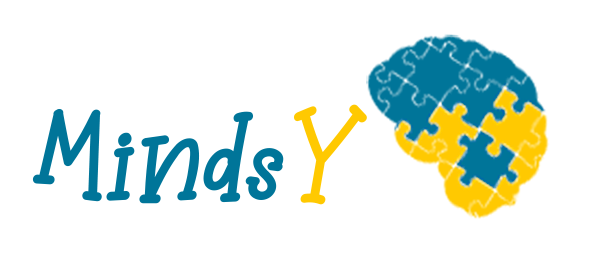
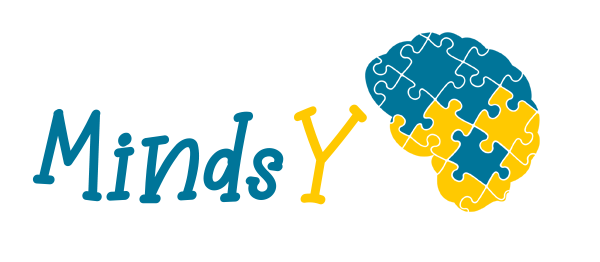
Alterando baner mindsy

Changed region(s): [[0.6, 0.1221, 0.93, 0.855]]

diff --git a/README.md b/README.md
@@ -2,7 +2,7 @@
 [![MIT license](http://img.shields.io/badge/license-MIT-brightgreen.svg)](http://opensource.org/licenses/MIT)
 
 <p align="center">
-  <img width="200" height="100" src="https://raw.githubusercontent.com/fga-eps-mds/2019.1-MindsY/develop/img/mindsybanner.png">
+  <img src="./img/mindsybanner.png">
 </p>
 
 <h1 align="center"> MindsY - Sistema gerenciador de relatórios psicológicos</h1>
